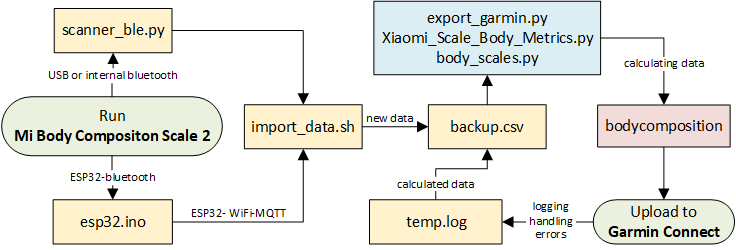
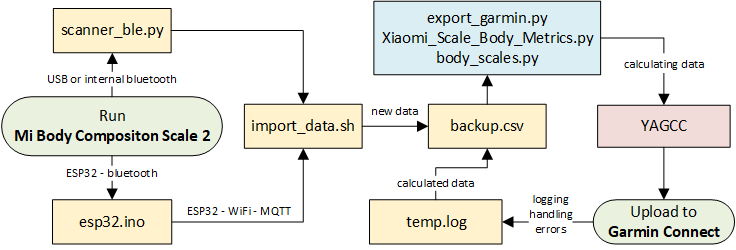
5.x

diff --git a/export_garmin.py b/export_garmin.py
@@ -8,7 +8,7 @@ import datetime
 
 # Version Info
 print("")
-print("Mi Body Composition Scale 2 Garmin Connect v5.3 (export_garmin.py)")
+print("Mi Body Composition Scale 2 Garmin Connect v5.9 (export_garmin.py)")
 print("")
 
 class User():
@@ -54,7 +54,7 @@ for user in users:
 # Calcuating body metrics and send data to Garmin Connect
 if selected_user is not None:
 	lib = Xiaomi_Scale_Body_Metrics.bodyMetrics(weight, selected_user.height, selected_user.age, selected_user.sex, int(miimpedance))
-	message = (path) + '/bodycomposition upload '
+	message = (path) + '/YAGCC uploadbodycomposition '
 	message += '--password ' + selected_user.password + ' '
 	message += '--weight ' + "{:.1f}".format(weight) + ' '
 	message += '--unix-timestamp ' + mitdatetime + ' '

diff --git a/manuals/ARM_esp32.md b/manuals/ARM_esp32.md
@@ -53,7 +53,7 @@
 ```
 sudo apt-get update
 sudo apt-get upgrade -y
-sudo apt-get install wget python3 bc mosquitto mosquitto-clients -y
+sudo apt-get install wget python3 bc mosquitto mosquitto-clients unzip -y
 ```
 - You need to set up a password for MQTT (password must be same as in ESP32): ```sudo mosquitto_passwd -c /etc/mosquitto/passwd admin```;
 - Create a configuration file for Mosquitto: ```sudo nano /etc/mosquitto/mosquitto.conf``` and enter following parameters:
@@ -63,13 +63,14 @@ allow_anonymous false
 password_file /etc/mosquitto/passwd
 ```
 - Download and extract to your home directory (e.g. "/home/robert/"), make a files executable, choose correct version of boodycomposition depending on your operating system:
-  - Raspberry Pi OS | Debian 11 (32-bit) use _Linux_armv6.tar.gz
-  - Raspberry Pi OS | Debian 11 (64-bit) use _Linux_arm64.tar.gz
+  - Raspberry Pi OS | Debian 11 (32-bit) use linux-arm.zip
+  - Raspberry Pi OS | Debian 11 (64-bit) use linux-arm64.zip
 ```
 wget https://github.com/RobertWojtowicz/miscale2garmin/archive/refs/tags/5.tar.gz -O - | tar -xz
 cd miscale2garmin-5
-wget https://github.com/davidkroell/bodycomposition/releases/download/v1.7.0/bodycomposition_1.7.0_Linux_x86_64.tar.gz -O - | tar -xz bodycomposition
-sudo chmod 755 bodycomposition import_data.sh export_garmin.py
+wget https://github.com/lswiderski/yet-another-garmin-connect-client/releases/download/cli-v0.0.1/linux-arm.zip
+unzip -j linux-arm.zip linux-arm/YAGCC && rm linux-arm.zip
+sudo chmod 755 YAGCC import_data.sh export_garmin.py
 ```
 
 ### 4.2.3. Configuring scripts
@@ -79,7 +80,7 @@ sudo chmod 755 bodycomposition import_data.sh export_garmin.py
 - Script "import_data.sh" has implemented debug mode, you can verify if everything is working properly, just execute it from console:
 ```
 $ /home/robert/miscale2garmin-5/import_data.sh
-Mi Body Composition Scale 2 Garmin Connect v5.5 (import_data.sh)
+Mi Body Composition Scale 2 Garmin Connect v5.9 (import_data.sh)
 
 * backup.csv file exists, check if temp.log exists
 * temp.log file exists, checking for new data
@@ -92,9 +93,9 @@ Mi Body Composition Scale 2 Garmin Connect v5.5 (import_data.sh)
 - If there is an error upload to Garmin Connect, data will be sent again on next execution, upload errors and other operations are saved in temp.log file:
 ```
 $ cat /home/robert/miscale2garmin-5/temp.log
-... uploading weight
+Uploaded
 
-Mi Body Composition Scale 2 Garmin Connect v5.3 (export_garmin.py)
+Mi Body Composition Scale 2 Garmin Connect v5.9 (export_garmin.py)
 
 * Import data: 1672412076;58.1;526
 * Calculated data: 07.01.2023;19:09;58.1;19.6;13.8;47.5;2.6;59.2;7;6;22;526;email@email.com;07.01.2023;19:21

diff --git a/manuals/ARM_ble.md b/manuals/ARM_ble.md
@@ -6,7 +6,7 @@
 ```
 sudo apt-get update
 sudo apt-get upgrade -y
-sudo apt-get install wget python3 bc bluetooth python3-pip libglib2.0-dev -y
+sudo apt-get install wget python3 bc bluetooth python3-pip libglib2.0-dev unzip -y
 sudo pip install bluepy
 ```
 - Modify file ```sudo nano /etc/systemd/system/bluetooth.target.wants/bluetooth.service```:
@@ -14,13 +14,14 @@ sudo pip install bluepy
 ExecStart=/usr/lib/bluetooth/bluetoothd --noplugin=sap
 ```
 - Download and extract to your home directory (e.g. "/home/robert/"), make a files executable, choose correct version of boodycomposition depending on your operating system:
-  - Raspberry Pi OS | Debian 11 (32-bit) use _Linux_armv6.tar.gz
-  - Raspberry Pi OS | Debian 11 (64-bit) use _Linux_arm64.tar.gz
+  - Raspberry Pi OS | Debian 11 (32-bit) use linux-arm.zip
+  - Raspberry Pi OS | Debian 11 (64-bit) use linux-arm64.zip
 ```
 wget https://github.com/RobertWojtowicz/miscale2garmin/archive/refs/tags/5.tar.gz -O - | tar -xz
 cd miscale2garmin-5
-wget https://github.com/davidkroell/bodycomposition/releases/download/v1.7.0/bodycomposition_1.7.0_Linux_x86_64.tar.gz -O - | tar -xz bodycomposition
-sudo chmod 755 bodycomposition import_data.sh scanner_ble.py export_garmin.py
+wget https://github.com/lswiderski/yet-another-garmin-connect-client/releases/download/cli-v0.0.1/linux-arm.zip
+unzip -j linux-arm.zip linux-arm/YAGCC && rm linux-arm.zip
+sudo chmod 755 YAGCC import_data.sh scanner_ble.py export_garmin.py
 sudo setcap 'cap_net_raw,cap_net_admin+eip' /usr/local/lib/python3.9/dist-packages/bluepy/bluepy-helper
 ```
 
@@ -45,7 +46,7 @@ Mi Body Composition Scale 2 Garmin Connect v5.3 (scanner_ble.py)
 - Script "import_data.sh" has implemented debug mode, you can verify if everything is working properly, just execute it from console:
 ```
 $ /home/robert/miscale2garmin-5/import_data.sh
-Mi Body Composition Scale 2 Garmin Connect v5.5 (import_data.sh)
+Mi Body Composition Scale 2 Garmin Connect v5.9 (import_data.sh)
 
 * backup.csv file exists, check if temp.log exists
 * temp.log file exists, checking for new data
@@ -58,9 +59,9 @@ Mi Body Composition Scale 2 Garmin Connect v5.5 (import_data.sh)
 - If there is an error upload to Garmin Connect, data will be sent again on next execution, upload errors and other operations are saved in temp.log file:
 ```
 $ cat /home/robert/miscale2garmin-5/temp.log
-... uploading weight
+Uploaded
 
-Mi Body Composition Scale 2 Garmin Connect v5.3 (export_garmin.py)
+Mi Body Composition Scale 2 Garmin Connect v5.9 (export_garmin.py)
 
 * Import data: 1672412076;58.1;526
 * Calculated data: 07.01.2023;19:09;58.1;19.6;13.8;47.5;2.6;59.2;7;6;22;526;email@email.com;07.01.2023;19:21

diff --git a/manuals/x86_ble.md b/manuals/x86_ble.md
@@ -6,7 +6,7 @@
 ```
 sudo apt-get update
 sudo apt-get upgrade -y
-sudo apt-get install wget python3 bc bluetooth python3-pip libglib2.0-dev -y
+sudo apt-get install wget python3 bc bluetooth python3-pip libglib2.0-dev unzip -y
 sudo pip install bluepy --break-system-packages
 ```
 - Modify file ```sudo nano /etc/systemd/system/bluetooth.target.wants/bluetooth.service```:
@@ -14,13 +14,13 @@ sudo pip install bluepy --break-system-packages
 ExecStart=/usr/lib/bluetooth/bluetoothd --noplugin=sap --experimental
 ```
 - Download and extract to your home directory (e.g. "/home/robert/"), make a files executable, choose correct version of boodycomposition depending on your operating system:
-  - Debian 12 (32-bit) use _Linux_i386.tar.gz
-  - Debian 12 (64-bit) use _Linux_x86_64.tar.gz
+  - Debian 12 (64-bit) use linux-x64.zip
 ```
 wget https://github.com/RobertWojtowicz/miscale2garmin/archive/refs/tags/5.tar.gz -O - | tar -xz
 cd miscale2garmin-5
-wget https://github.com/davidkroell/bodycomposition/releases/download/v1.7.0/bodycomposition_1.7.0_Linux_x86_64.tar.gz -O - | tar -xz bodycomposition
-sudo chmod 755 bodycomposition import_data.sh scanner_ble.py export_garmin.py
+wget https://github.com/lswiderski/yet-another-garmin-connect-client/releases/download/cli-v0.0.1/linux-x64.zip
+unzip -j linux-x64.zip linux-x64/YAGCC && rm linux-x64.zip
+sudo chmod 755 YAGCC import_data.sh scanner_ble.py export_garmin.py
 sudo chmod 555 /etc/bluetooth
 sudo setcap 'cap_net_raw,cap_net_admin+eip' /usr/local/lib/python3.11/dist-packages/bluepy/bluepy-helper
 ```
@@ -46,7 +46,7 @@ Mi Body Composition Scale 2 Garmin Connect v5.3 (scanner_ble.py)
 - Script "import_data.sh" has implemented debug mode, you can verify if everything is working properly, just execute it from console:
 ```
 $ /home/robert/miscale2garmin-5/import_data.sh
-Mi Body Composition Scale 2 Garmin Connect v5.5 (import_data.sh)
+Mi Body Composition Scale 2 Garmin Connect v5.9 (import_data.sh)
 
 * backup.csv file exists, check if temp.log exists
 * temp.log file exists, checking for new data
@@ -59,9 +59,9 @@ Mi Body Composition Scale 2 Garmin Connect v5.5 (import_data.sh)
 - If there is an error upload to Garmin Connect, data will be sent again on next execution, upload errors and other operations are saved in temp.log file:
 ```
 $ cat /home/robert/miscale2garmin-5/temp.log
-... uploading weight
+Uploaded
 
-Mi Body Composition Scale 2 Garmin Connect v5.3 (export_garmin.py)
+Mi Body Composition Scale 2 Garmin Connect v5.9 (export_garmin.py)
 
 * Import data: 1672412076;58.1;526
 * Calculated data: 07.01.2023;19:09;58.1;19.6;13.8;47.5;2.6;59.2;7;6;22;526;email@email.com;07.01.2023;19:21

diff --git a/manuals/x86_esp32.md b/manuals/x86_esp32.md
@@ -53,7 +53,7 @@
 ```
 sudo apt-get update
 sudo apt-get upgrade -y
-sudo apt-get install wget python3 bc mosquitto mosquitto-clients -y
+sudo apt-get install wget python3 bc mosquitto mosquitto-clients unzip -y
 ```
 - You need to set up a password for MQTT (password must be same as in ESP32): ```sudo mosquitto_passwd -c /etc/mosquitto/passwd admin```;
 - Create a configuration file for Mosquitto: ```sudo nano /etc/mosquitto/mosquitto.conf``` and enter following parameters:
@@ -63,13 +63,13 @@ allow_anonymous false
 password_file /etc/mosquitto/passwd
 ```
 - Download and extract to your home directory (e.g. "/home/robert/"), make a files executable, choose correct version of boodycomposition depending on your operating system:
-  - Debian (32-bit) use _Linux_i386.tar.gz
-  - Debian (64-bit) use _Linux_x86_64.tar.gz
+  - Debian (64-bit) use linux-x64.zip
 ```
 wget https://github.com/RobertWojtowicz/miscale2garmin/archive/refs/tags/5.tar.gz -O - | tar -xz
 cd miscale2garmin-5
-wget https://github.com/davidkroell/bodycomposition/releases/download/v1.7.0/bodycomposition_1.7.0_Linux_x86_64.tar.gz -O - | tar -xz bodycomposition
-sudo chmod 755 bodycomposition import_data.sh export_garmin.py
+wget https://github.com/lswiderski/yet-another-garmin-connect-client/releases/download/cli-v0.0.1/linux-x64.zip
+unzip -j linux-x64.zip linux-x64/YAGCC && rm linux-x64.zip
+sudo chmod 755 YAGCC import_data.sh export_garmin.py
 ```
 
 ### 4.2.3. Configuring scripts
@@ -79,7 +79,7 @@ sudo chmod 755 bodycomposition import_data.sh export_garmin.py
 - Script "import_data.sh" has implemented debug mode, you can verify if everything is working properly, just execute it from console:
 ```
 $ /home/robert/miscale2garmin-5/import_data.sh
-Mi Body Composition Scale 2 Garmin Connect v5.5 (import_data.sh)
+Mi Body Composition Scale 2 Garmin Connect v5.9 (import_data.sh)
 
 * backup.csv file exists, check if temp.log exists
 * temp.log file exists, checking for new data
@@ -92,9 +92,9 @@ Mi Body Composition Scale 2 Garmin Connect v5.5 (import_data.sh)
 - If there is an error upload to Garmin Connect, data will be sent again on next execution, upload errors and other operations are saved in temp.log file:
 ```
 $ cat /home/robert/miscale2garmin-5/temp.log
-... uploading weight
+Uploaded
 
-Mi Body Composition Scale 2 Garmin Connect v5.3 (export_garmin.py)
+Mi Body Composition Scale 2 Garmin Connect v5.9 (export_garmin.py)
 
 * Import data: 1672412076;58.1;526
 * Calculated data: 07.01.2023;19:09;58.1;19.6;13.8;47.5;2.6;59.2;7;6;22;526;email@email.com;07.01.2023;19:21

diff --git a/README.md b/README.md
@@ -4,7 +4,7 @@
 - This project works **only on Linux**, Windows is not supported;
 - It is possible to run Linux as a virtual machine on Windows and use passthrough mechanism;
 - This project is based on following projects:
-  - https://github.com/davidkroell/bodycomposition;
+  - https://github.com/lswiderski/yet-another-garmin-connect-client;
   - https://github.com/wiecosystem/Bluetooth;
   - https://github.com/lolouk44/xiaomi_mi_scale;
   - https://github.com/rando-calrissian/esp32_xiaomi_mi_2_hass;
@@ -48,7 +48,7 @@
 - After weighing, Mi Body Composition Scale 2 is active for 15 minutes on bluetooth transmission;
 - USB bluetooth adapter or internal module (tested with bluetooth versions 4.0/4.1 and 5.0/5.1/5.3) scans for BLE device every 1 minute for 10 seconds and queries scale for data;
 - Body weight and impedance data on server are appropriately processed by scripts;
-- Processed data are sent by program bodycomposition to Garmin Connect;
+- Processed data are sent by program YAGCC to Garmin Connect;
 - Raw and calculated data from scale is backed up on server in backup.csv file;
 - backup.csv file can be imported e.g. for analysis into Excel.
 
@@ -61,7 +61,7 @@
 - ESP32 module operates in a deep sleep and wakes up every 7 minutes, scans for BLE device for 10 seconds and queries scale for data, process can be started immediately via reset button;
 - ESP32 module sends acquired data via MQTT protocol to MQTT broker installed on server;
 - Body weight and impedance data on server are appropriately processed by scripts;
-- Processed data are sent by program bodycomposition to Garmin Connect;
+- Processed data are sent by program YAGCC to Garmin Connect;
 - Raw and calculated data from scale is backed up on server in backup.csv file;
 - backup.csv file can be imported e.g. for analysis into Excel.
 
